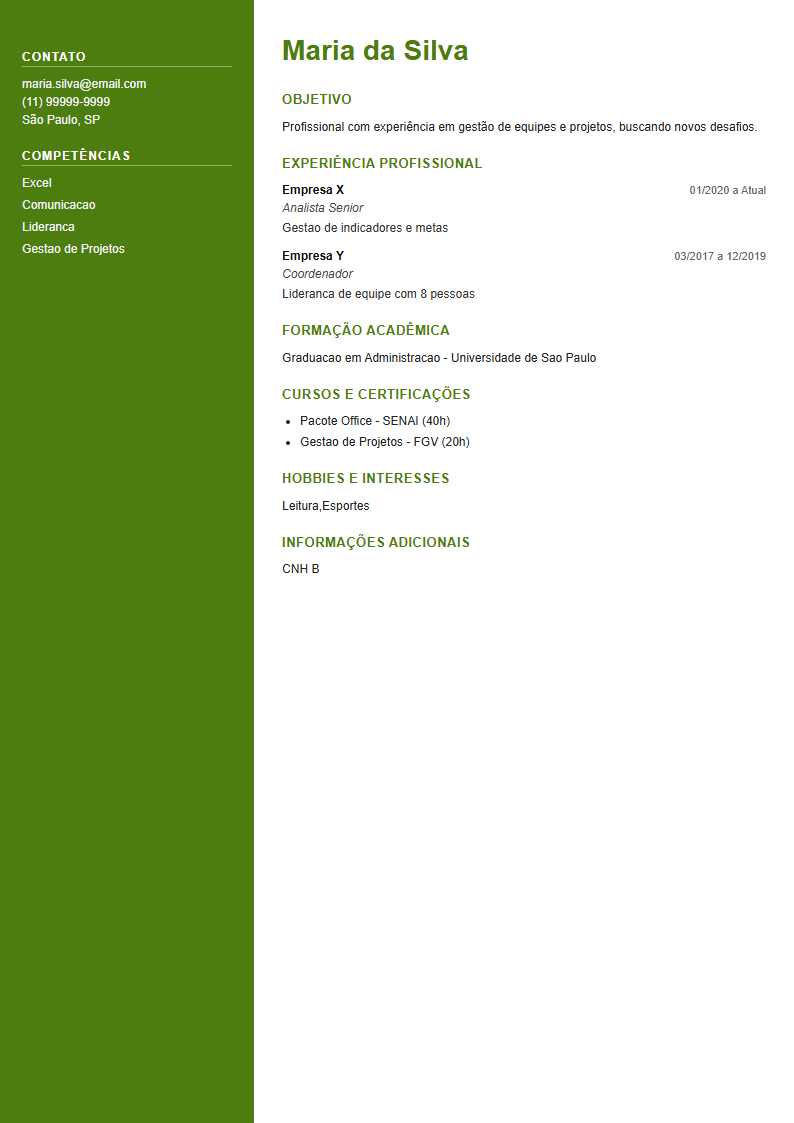
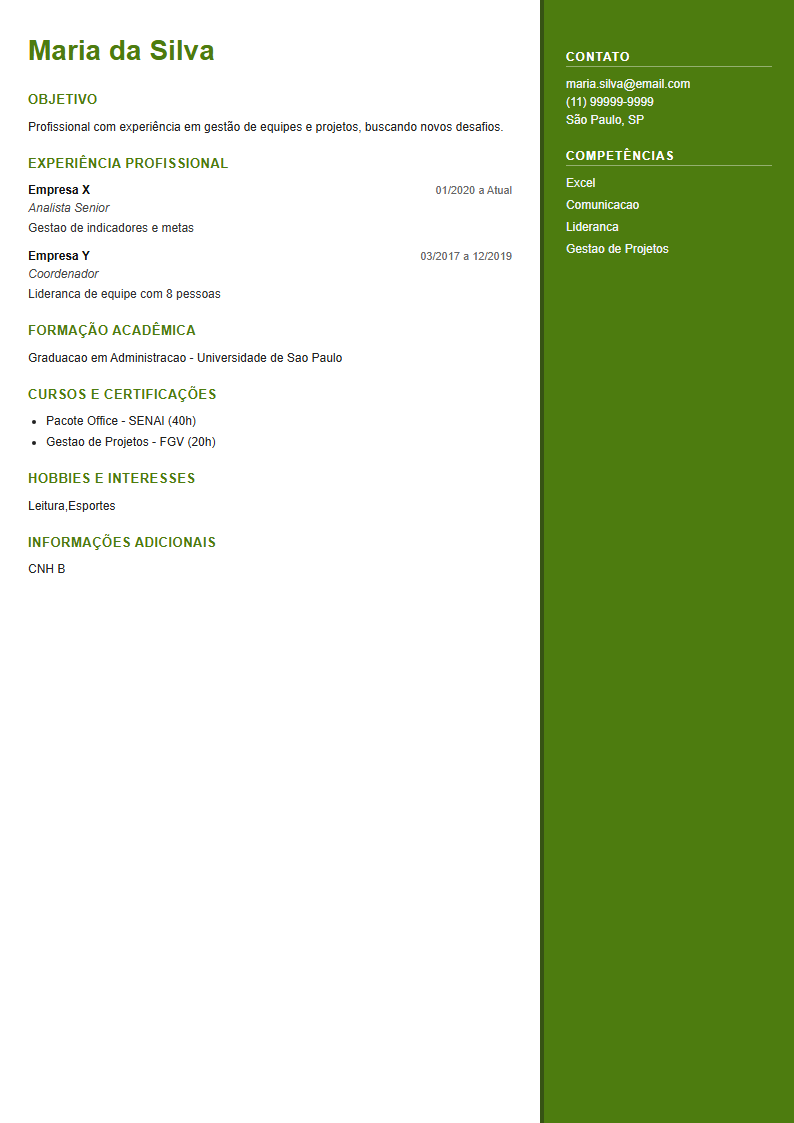
vai

diff --git a/lib/renderHTML.js b/lib/renderHTML.js
@@ -303,11 +303,6 @@ function montarFuncional(dados) {
     .map((t) => `<li>${esc(t)}</li>`)
     .join("");
   return `
-  <div class="sidebar">
-    <div class="lat-titulo">Contato</div>
-    <div class="lat-contato">${contato.join("<br/>") || ""}</div>
-    ${dados.habilidades ? `<div class="lat-titulo">Competências</div><ul class="lat-lista">${habilidades}</ul>` : ""}
-  </div>
   <div class="main">
     <h1 class="nome">${esc(dados.nome || "Currículo")}</h1>
     ${secaoObjetivo(dados)}
@@ -316,6 +311,11 @@ function montarFuncional(dados) {
     ${secaoCursos(dados)}
     ${secaoHobbies(dados)}
     ${secaoInfo(dados)}
+  </div>
+  <div class="sidebar">
+    <div class="lat-titulo">Contato</div>
+    <div class="lat-contato">${contato.join("<br/>") || ""}</div>
+    ${dados.habilidades ? `<div class="lat-titulo">Competências</div><ul class="lat-lista">${habilidades}</ul>` : ""}
   </div>
 `;
 }
@@ -522,14 +522,14 @@ const CSS = {
     .modelo-profissional h2 { color:#334155; border-bottom:2px solid #334155; padding-bottom:4px; }
   `,
   executivo: `
-    .page { background:#fff; }
-    .modelo-executivo .cab-exec { background:#0f172a; color:#fff; text-align:center; padding:38px 48px 30px; border-bottom:5px solid #1e293b; }
-    .modelo-executivo .cab-exec .nome { color:#fff; font-size:30px; font-weight:800; text-transform:uppercase; letter-spacing:3px; }
-    .modelo-executivo .exec-cargo { color:#e2e8f0; font-size:12px; font-style:italic; margin-top:4px; }
-    .modelo-executivo .exec-contato { color:#cbd5e1; margin-top:10px; font-size:11px; }
-    .modelo-executivo .corpo-exec { padding:20px 48px 40px; }
+    .page { background:#fff; border-top:8px solid #1e293b; }
+    .modelo-executivo .cab-exec { text-align:center; padding:30px 48px 18px; }
+    .modelo-executivo .cab-exec .nome { color:#0f172a; font-size:32px; font-weight:800; text-transform:uppercase; letter-spacing:3px; }
+    .modelo-executivo .exec-cargo { color:#475569; font-size:13px; letter-spacing:2px; text-transform:uppercase; margin-top:6px; }
+    .modelo-executivo .exec-contato { color:#64748b; margin-top:12px; font-size:11px; }
+    .modelo-executivo .corpo-exec { border-top:3px double #94a3b8; margin-top:12px; padding:18px 48px 40px; }
     .modelo-executivo h2 { color:#0f172a; border-bottom:3px solid #0f172a; padding-bottom:4px; }
-    .modelo-executivo .sec { border-top:1px solid #e5e7eb; }
+    .modelo-executivo .sec { border-top:1px solid #e2e8f0; }
   `,
   cronologico: `
     .page { background:#fff; }
@@ -544,13 +544,13 @@ const CSS = {
   `,
   funcional: `
     .page { display:flex; padding:0; background:#fff; }
-    .modelo-funcional .sidebar { width:32%; background:#4d7c0f; color:#fff; padding:30px 22px; }
-    .modelo-funcional .sidebar .lat-titulo { color:#fff; border-bottom:1px solid rgba(255,255,255,0.4); }
-    .modelo-funcional .sidebar .lat-contato, .modelo-funcional .sidebar .lat-lista { color:#f1f5f9; }
-    .modelo-funcional .sidebar .lat-lista { list-style:none; padding:0; margin:0; }
     .modelo-funcional .main { flex:1; padding:30px 28px; }
     .modelo-funcional .nome { color:#4d7c0f; font-size:28px; font-weight:700; }
     .modelo-funcional h2 { color:#4d7c0f; }
+    .modelo-funcional .sidebar { width:32%; background:#4d7c0f; color:#fff; padding:30px 22px; border-left:4px solid #365314; }
+    .modelo-funcional .sidebar .lat-titulo { color:#fff; border-bottom:1px solid rgba(255,255,255,0.4); }
+    .modelo-funcional .sidebar .lat-contato, .modelo-funcional .sidebar .lat-lista { color:#f1f5f9; }
+    .modelo-funcional .sidebar .lat-lista { list-style:none; padding:0; margin:0; }
   `,
   compacto: `
     .page { display:flex; padding:0; background:#fff; font-size:10px; }
@@ -578,6 +578,58 @@ const CSS = {
     .modelo-tecnico h2 { background:#f8fafc; padding:5px 10px; color:#1e3a8a; border:1px solid #e2e8f0; border-left:4px solid #1e3a8a; }
     .modelo-tecnico .tag { background:#eef2ff; color:#1e3a8a; }
     .modelo-tecnico .exp-periodo { color:#1e3a8a; font-weight:700; }
+  `,
+  elegante: `
+    .page { background:#fff; padding:52px 64px; }
+    .modelo-elegante .cab-topo { text-align:center; padding-bottom:16px; border-bottom:1px solid #cbd5e1; margin-bottom:10px; }
+    .modelo-elegante .nome { color:#0f766e; font-size:30px; font-weight:500; letter-spacing:2px; }
+    .modelo-elegante .cargo-linha { color:#64748b; font-size:12px; letter-spacing:1px; margin-top:4px; }
+    .modelo-elegante .contato { color:#475569; margin-top:8px; }
+    .modelo-elegante h2 { color:#0f766e; font-weight:500; letter-spacing:2px; border:none; }
+    .modelo-elegante .sec { border-top:1px solid #e2e8f0; }
+    .modelo-elegante .par { color:#334155; }
+  `,
+  criativo: `
+    .page { display:flex; padding:0; background:#fff; }
+    .modelo-criativo .sidebar { width:32%; background:#ea580c; color:#fff; padding:30px 22px; }
+    .modelo-criativo .avatar-inicial { width:56px; height:56px; border-radius:50%; background:#fff; color:#ea580c; font-size:26px; font-weight:800; display:flex; align-items:center; justify-content:center; margin-bottom:18px; }
+    .modelo-criativo .sidebar .lat-titulo { color:#fff; border-bottom:1px solid rgba(255,255,255,0.4); }
+    .modelo-criativo .sidebar .lat-contato, .modelo-criativo .sidebar .lat-lista { color:#fff7ed; }
+    .modelo-criativo .sidebar .lat-lista { list-style:none; padding:0; margin:0; }
+    .modelo-criativo .main { flex:1; padding:30px 28px; }
+    .modelo-criativo .nome { color:#ea580c; font-size:28px; font-weight:800; }
+    .modelo-criativo .cargo-linha { color:#9a3412; font-size:12px; margin-top:2px; }
+    .modelo-criativo h2 { color:#ea580c; }
+    .modelo-criativo .exp-periodo { color:#ea580c; font-weight:700; }
+  `,
+  limpo: `
+    .page { background:#fff; padding:48px 56px; }
+    .modelo-limpo .cab-topo { text-align:center; padding-bottom:14px; border-bottom:3px solid #111827; margin-bottom:8px; }
+    .modelo-limpo .nome { color:#111827; font-size:30px; font-weight:700; letter-spacing:1px; }
+    .modelo-limpo .contato { color:#475569; margin-top:6px; }
+    .modelo-limpo .contato .sep { color:#cbd5e1; }
+    .modelo-limpo h2 { color:#111827; border:none; letter-spacing:2px; }
+    .modelo-limpo .par { color:#334155; }
+  `,
+  tradicional: `
+    .page { background:#fff; padding:54px 62px; }
+    .modelo-tradicional { font-family:Georgia, 'Times New Roman', serif; }
+    .modelo-tradicional .cab-topo { text-align:center; padding-bottom:14px; border-bottom:3px double #7c5a3a; margin-bottom:10px; }
+    .modelo-tradicional .nome { font-family:Georgia, 'Times New Roman', serif; color:#7c5a3a; font-weight:700; font-size:30px; letter-spacing:1px; }
+    .modelo-tradicional .cargo-linha { color:#a16207; font-style:italic; margin-top:4px; }
+    .modelo-tradicional .contato { color:#57534e; font-style:italic; margin-top:8px; }
+    .modelo-tradicional .contato .sep { color:#c9a86a; }
+    .modelo-tradicional h2 { font-family:Georgia, 'Times New Roman', serif; color:#7c5a3a; border-bottom:1px solid #e7dcc8; }
+  `,
+  contemporaneo: `
+    .page { padding:0; background:#fff; }
+    .modelo-contemporaneo .cab-banner { background:#3730a3; color:#fff; padding:34px 48px; text-align:center; }
+    .modelo-contemporaneo .cab-banner .nome { color:#fff; font-size:28px; font-weight:800; letter-spacing:1px; }
+    .modelo-contemporaneo .cab-banner .cargo-linha { color:#c7d2fe; font-size:12px; margin-top:2px; }
+    .modelo-contemporaneo .banner-contato { color:#e0e7ff; margin-top:8px; font-size:11px; }
+    .modelo-contemporaneo .corpo { padding:6px 48px 40px; }
+    .modelo-contemporaneo h2 { color:#3730a3; border-bottom:2px solid #6366f1; padding-bottom:4px; }
+    .modelo-contemporaneo .tag { background:#eef2ff; color:#3730a3; }
   `,
 };
 
@@ -620,6 +672,8 @@ function gerarHTML(modeloId, dadosBrutos) {
     classico: montarClassico, moderno: montarModerno, minimal: montarMinimal,
     profissional: montarProfissional, executivo: montarExecutivo, cronologico: montarCronologico,
     funcional: montarFuncional, compacto: montarCompacto, soberio: montarSoberio, tecnico: montarTecnico,
+    elegante: montarElegante, criativo: montarCriativo, limpo: montarLimpo,
+    tradicional: montarTradicional, contemporaneo: montarContemporaneo,
   };
   const montar = montadores[modeloId] || montarClassico;
   const cssModelo = CSS[modeloId] || CSS.classico;

diff --git a/lib/modelos.js b/lib/modelos.js
@@ -33,6 +33,11 @@ const MODELOS = [
   { id: "compacto",     nome: "Compacto",     descricao: "Aproveita bem o espaço. Ótimo para quem tem muita experiência para caber em poucas páginas." },
   { id: "soberio",      nome: "Sóbrio",       descricao: "Fonte serifada, visual clássico e elegante. Sofisticado e atemporal." },
   { id: "tecnico",      nome: "Técnico",      descricao: "Otimizado para áreas técnicas e engenharia, com seções de certificações e projetos." },
+  { id: "elegante",     nome: "Elegante",     descricao: "Tipografia refinada e espaçosa, com toque de cor suave. Moderno e sofisticado." },
+  { id: "criativo",     nome: "Criativo",     descricao: "Lateral colorida com avatar e destaque para habilidades. Ideal para áreas de criação e comunicação." },
+  { id: "limpo",        nome: "Limpo",        descricao: "Visual objetivo e sem ruído, com cabeçalho marcado por linha de destaque." },
+  { id: "tradicional",  nome: "Tradicional",  descricao: "Serifado clássico com borda dupla. Perfil conservador e confiável." },
+  { id: "contemporaneo", nome: "Contemporâneo", descricao: "Banner colorido e seções com etiquetas. Equilíbrio entre moderno e profissional." },
 ];
 
 // Ajustes por modelo (aplicados sobre o layout base do fallback PDF/DOCX).
@@ -47,6 +52,11 @@ const ESTILOS = {
   compacto:     { cor: "#1f2937", fonte: "Helvetica",      tamanho: 9,  espacado: false },
   soberio:      { cor: "#3b2f2f", fonte: "Times-Roman",    tamanho: 10.5, espacado: true },
   tecnico:      { cor: "#1e3a8a", fonte: "Helvetica",      tamanho: 10, separadores: true },
+  elegante:     { cor: "#0f766e", fonte: "Helvetica",      tamanho: 10, espacado: true },
+  criativo:     { cor: "#ea580c", fonte: "Helvetica",      tamanho: 10, faixaLateral: true },
+  limpo:        { cor: "#111827", fonte: "Helvetica",      tamanho: 10, espacado: true },
+  tradicional:  { cor: "#7c5a3a", fonte: "Times-Roman",    tamanho: 10, espacado: true },
+  contemporaneo:{ cor: "#3730a3", fonte: "Helvetica",      tamanho: 10, separadores: true },
 };
 
 // ---------------------------------------------------------------------------

diff --git a/_gen_thumbnails.js b/_gen_thumbnails.js
@@ -29,6 +29,7 @@ const dados = {
 const MODELOS = [
   "classico", "moderno", "minimal", "profissional", "executivo",
   "cronologico", "funcional", "compacto", "soberio", "tecnico",
+  "elegante", "criativo", "limpo", "tradicional", "contemporaneo",
 ];
 
 const OUT_DIR = path.join(__dirname, "public", "imagens", "miniaturas");
